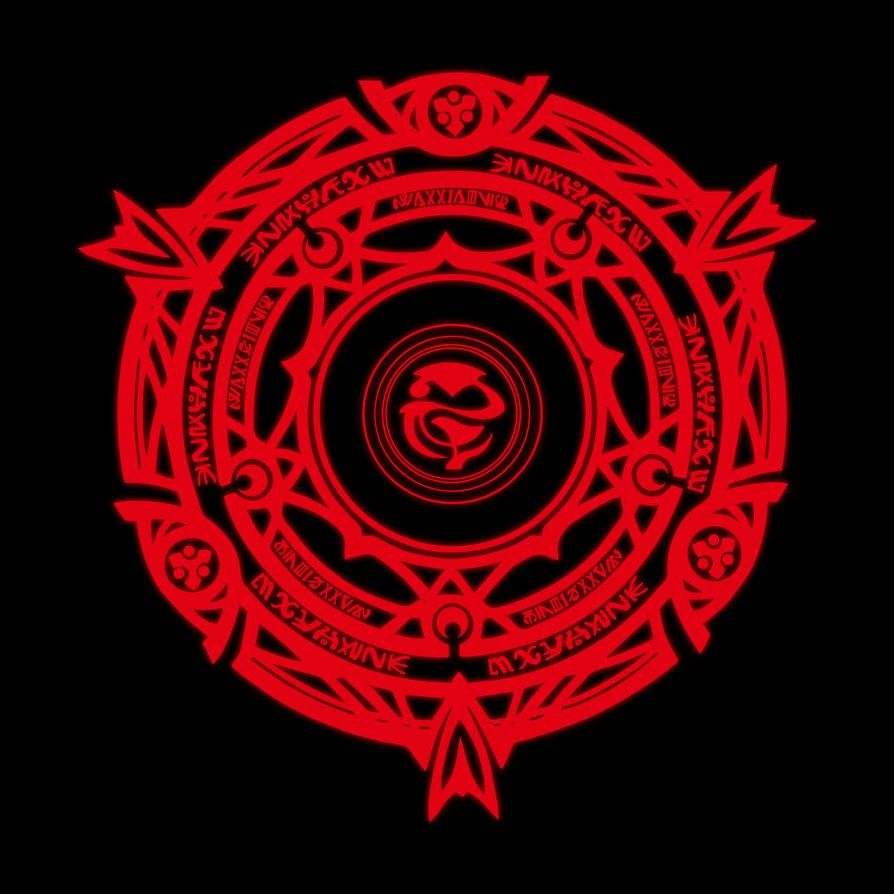
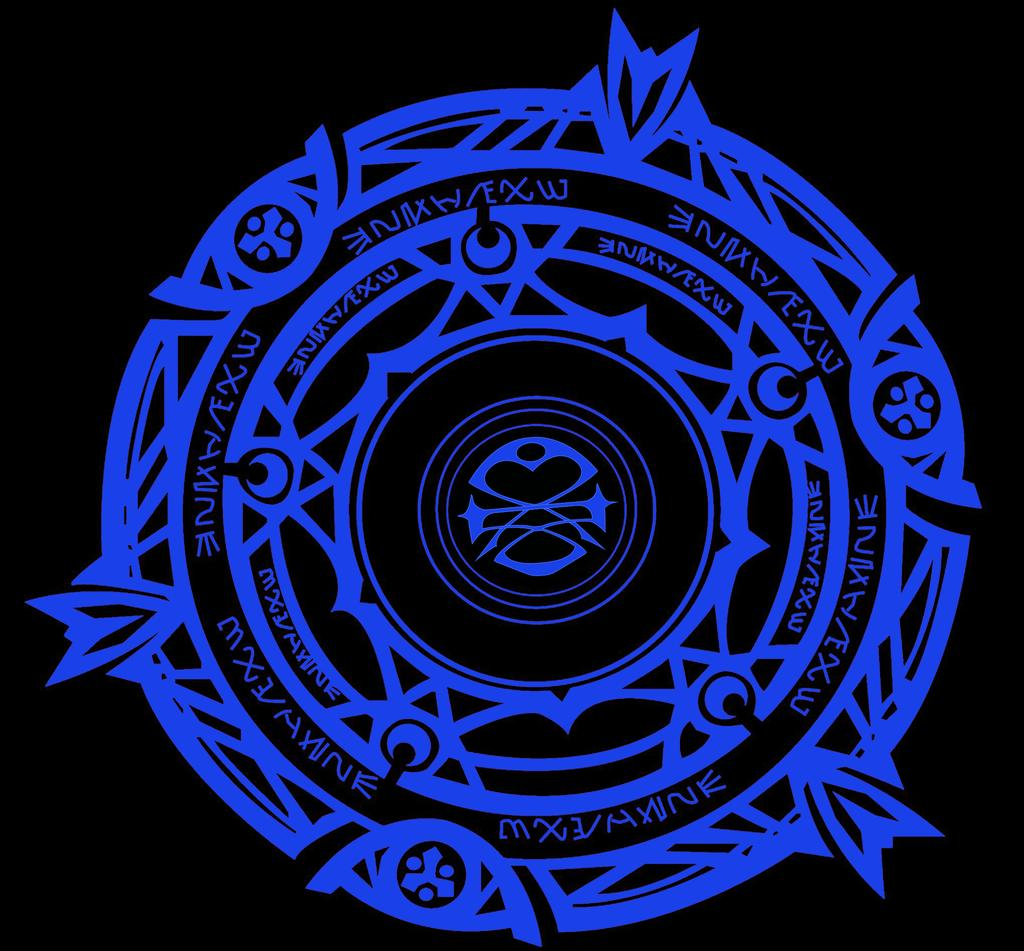
Background updates

diff --git a/src/Comps/Pages/ContactMe.js b/src/Comps/Pages/ContactMe.js
@@ -16,11 +16,8 @@ const ContactMe = () => {
               </a>
 
               {/* Modal Start */}
-              <div id='modal1' className='modal modal-fixed-footer'>
-                <div
-                  className='modal-content '
-                  styles={{ overlay: { background: '#80deea' } }}
-                >
+              <div id='modal1' className='modal modal-fixed-footer my-modal'>
+                <div className='modal-content '>
                   {/* formstart */}
                   <form action='https://formspree.io/mknqqgzz' method='POST'>
                     <div className='row'>
@@ -55,10 +52,10 @@ const ContactMe = () => {
                   </form>
                   {/* form end */}
                 </div>
-                <div class='modal-footer'>
+                <div className='modal-footer'>
                   <a
                     href='#!'
-                    class='modal-close waves-effect waves-green btn-flat'
+                    className='modal-close waves-effect waves-green btn-flat'
                   >
                     Close
                   </a>

diff --git a/src/Comps/Pages/Home.css b/src/Comps/Pages/Home.css
@@ -4,3 +4,7 @@ body {
   background-position: center top;
   background-repeat: no-repeat;
 }
+
+.my-modal .modal-content {
+  background-image: url('/Images/sealre.jpg');
+}
